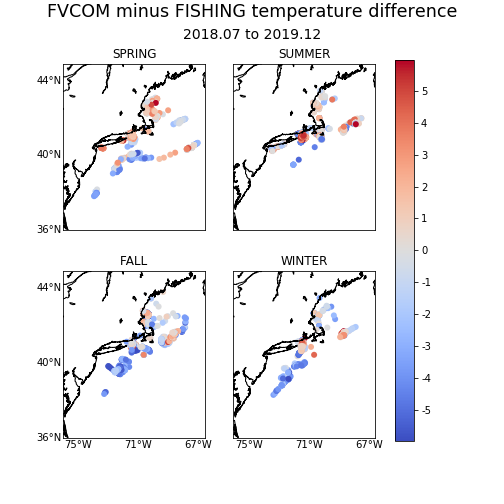
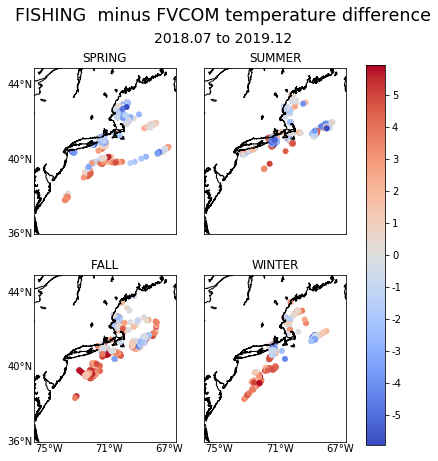
Add files via upload

diff --git a/Map of mod vs obs/model_obs_mapscatter.py b/Map of mod vs obs/model_obs_mapscatter.py
@@ -2,7 +2,7 @@
 """
 Created on Wed Apr  8 01:18:54 2020
 
-Draw map of models'temperature minus observation'stemperature.
+Draw map of observation'stemperature minus models'temperature.
     (This code still needs a lot of simplifying.Because it didn't loop models,so you need to change the models'file,
     such as DF_C,DF_D,DF_F,DF_G ; save_path and subtitle.
 
@@ -51,13 +51,13 @@ DF_C = pd.read_csv(path+data_list[0], index_col=0)
 DF_D = pd.read_csv(path+data_list[1], index_col=0)
 DF_F = pd.read_csv(path+data_list[2], index_col=0)
 DF_G = pd.read_csv(path+data_list[3], index_col=0)
-for i in range(len(DF_G['difference'])):
-    if abs(DF_G['difference'][i]) < 6:
+for i in range(len(DF_C['difference'])):
+    if abs(DF_C['difference'][i]) < 6:
         continue
     else:
-        DF_G = DF_G.drop(i)
-DF_G.index = range(len(DF_G))
-DF_G['time'] = pd.to_datetime(DF_G['time'])
+        DF_C = DF_C.drop(i)
+DF_C.index = range(len(DF_C))
+DF_C['time'] = pd.to_datetime(DF_C['time'])
 seasons = ['SPRING', 'SUMMER', 'FALL', 'WINTER']
 spring_list = []
 summer_list = []
@@ -68,19 +68,19 @@ spring_df = pd.DataFrame(data=None,\
 summer_df = spring_df
 fall_df = spring_df
 winter_df = spring_df
-for i in range(len(DF_G['time'])):
-    if 3<=DF_G['time'][i].month<=5:
-        spring_list.append(DF_G['difference'][i])
-        spring_df = spring_df.append(DF_G.iloc[i], ignore_index=True)
-    elif 6<=DF_G['time'][i].month<=8:
-        summer_list.append(DF_G['difference'][i])
-        summer_df = summer_df.append(DF_G.iloc[i], ignore_index=True)
-    elif 9<=DF_G['time'][i].month<=11:
-        fall_list.append(DF_G['difference'][i])
-        fall_df = fall_df.append(DF_G.iloc[i], ignore_index=True)
-    elif 11<DF_G['time'][i].month<=12 or 1<=DF_G['time'][i].month<=2:
-        winter_list.append(DF_G['difference'][i])
-        winter_df = winter_df.append(DF_G.iloc[i], ignore_index=True)
+for i in range(len(DF_C['time'])):
+    if 3<=DF_C['time'][i].month<=5:
+        spring_list.append(DF_C['difference'][i])
+        spring_df = spring_df.append(DF_C.iloc[i], ignore_index=True)
+    elif 6<=DF_C['time'][i].month<=8:
+        summer_list.append(DF_C['difference'][i])
+        summer_df = summer_df.append(DF_C.iloc[i], ignore_index=True)
+    elif 9<=DF_C['time'][i].month<=11:
+        fall_list.append(DF_C['difference'][i])
+        fall_df = fall_df.append(DF_C.iloc[i], ignore_index=True)
+    elif 11<DF_C['time'][i].month<=12 or 1<=DF_C['time'][i].month<=2:
+        winter_list.append(DF_C['difference'][i])
+        winter_df = winter_df.append(DF_C.iloc[i], ignore_index=True)
 spring_df.index = range(len(spring_df))
 summer_df.index = range(len(summer_df))
 fall_df.index = range(len(fall_df))
@@ -123,6 +123,6 @@ c3 = fig.colorbar(a, ax=[ax1, ax2, ax3, ax4])
 c3.set_ticks(np.arange(-6,6))
 c3.set_ticklabels(np.arange(-6,6))
 fig.text(0.5, 0.93, '2018.07 to 2019.12', ha='center', va='center', fontsize=2.0*size)
-plt.suptitle('GOMOFS minus FISHING temperature difference', va='center_baseline', fontsize=2.5*size)
+plt.suptitle('FISHING  minus CLIM temperature difference', va='center_baseline', fontsize=2.5*size)
 plt.savefig(save_path)
 plt.show()
